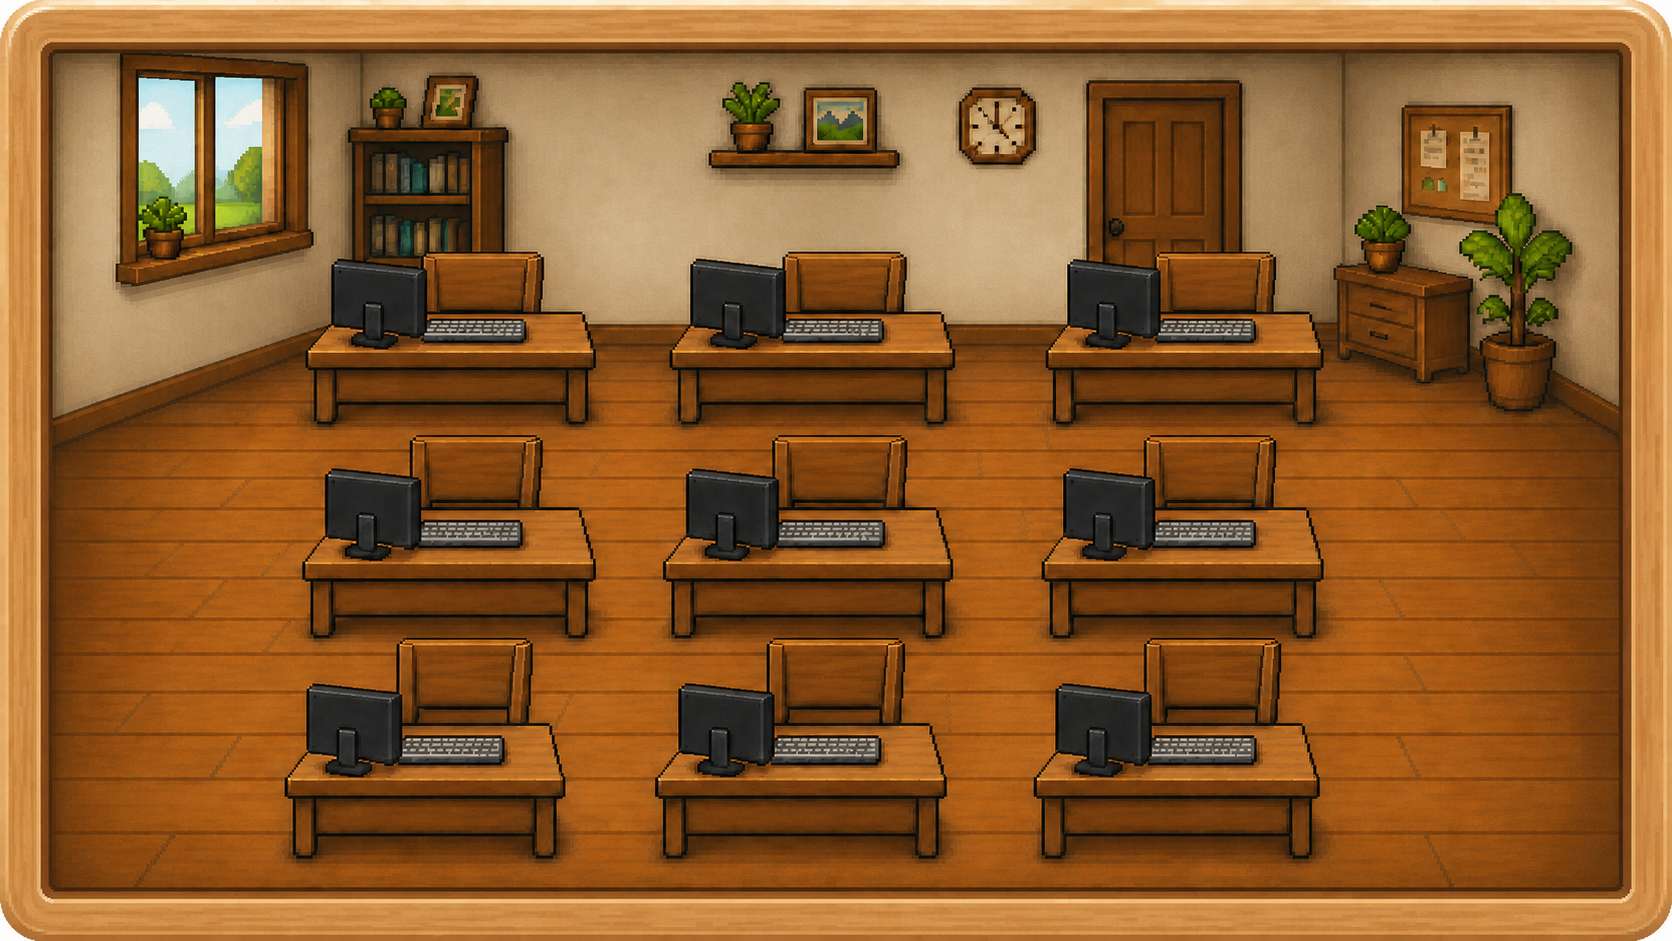
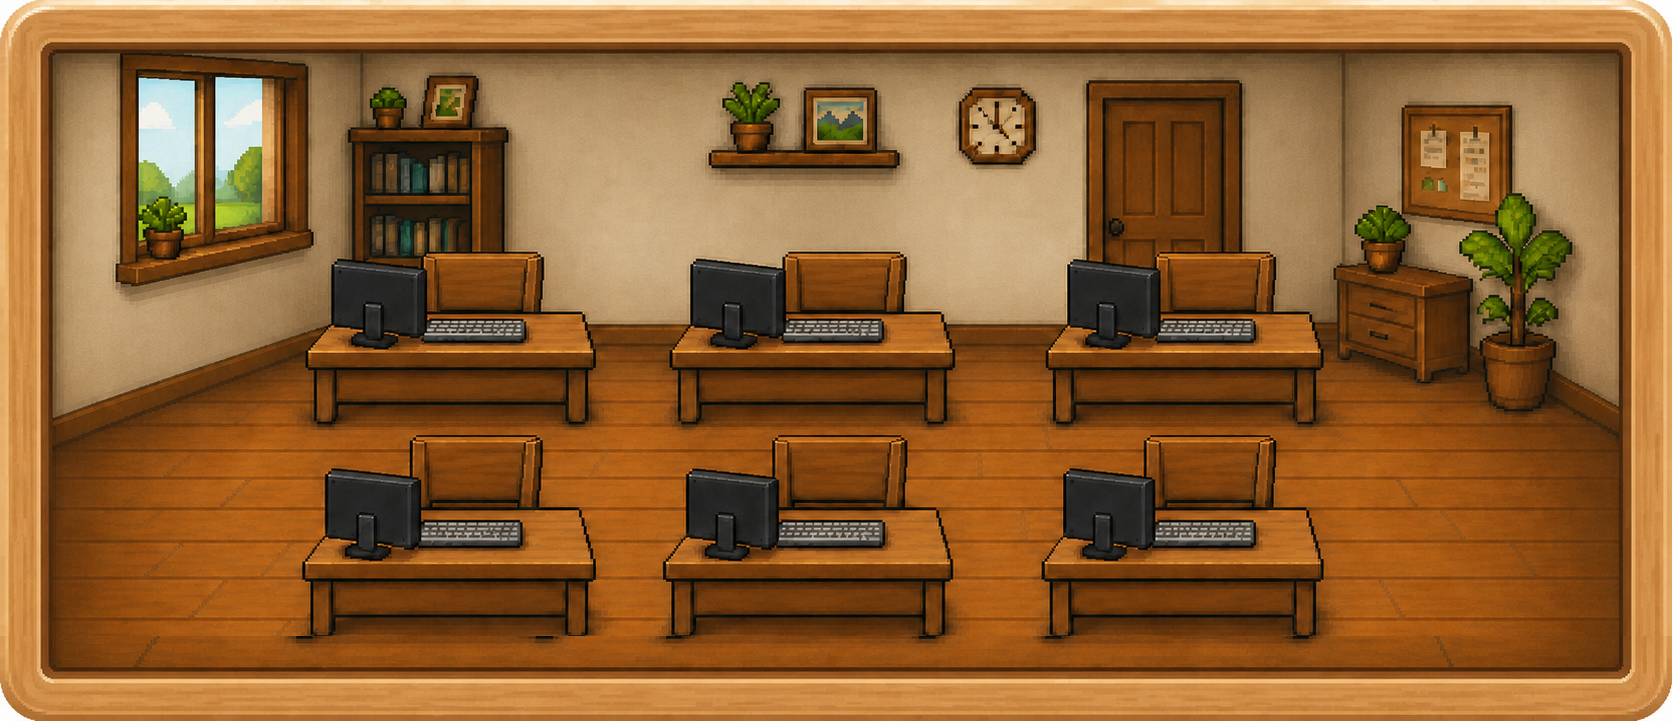
木框小窗缩小改 6 座、小人放大；看板被意外关掉 1 秒后自动重开
用户嫌 9 座太大、最多用到 6 个：背景裁掉最前排 3 张桌子（1672x941 → 1672x721，前排与底边木框
之间补一条地板，接缝看不出），窗口物理 480x270 → 400x173；小人画布宽 11.3/12.6% → 14.5/16%。
先坐前排：顶上状态框会压住后排中间那个小人的头。9 座原图存 renderer/_old（…）/assets/。
看板（设定03 永远常驻）：窗口 closed 且不是退出程序就记一笔、1 秒后重建；今天实机窗口没了日志一个字没有。
根因当时是 PasteBar 占了 8104 个窗口对象把桌面额度吃光，任何 Electron 程序都开不出窗口。

验收：检查边界 0；npm test 147+4 三轮；controls/lifecycle/screenshot/smoke 连跑三轮全过；
integration:smoke、verify-seats（6 座位置、背景 1672x721、画框比例）过。

diff --git a/src/pet/renderer/styles.css b/src/pet/renderer/styles.css
@@ -103,14 +103,14 @@ body[data-state="done"] .note-dot { background: var(--sprout-light); }
    撑满会踩这个坑：窗口高度按 scaleFactor 换算完难免差个几像素，图 contain 之后
    上下留一条空白，而圆角和阴影是照窗口边画的 → 木框四角和窗口边错开，
    看着就是「背景错位」（2026-08-14 用户报的）。
-   让画框自己保持 1672:941 并垂直居中，圆角/阴影永远咬着图边，换背景图也不会再错。 */
+   让画框自己保持 1672:721（2026-10-01 改 6 座后的图）并垂直居中，圆角/阴影永远咬着图边，换背景图也不会再错。 */
 .scene-frame {
   position: absolute;
   left: 0;
   right: 0;
   top: 50%;
   transform: translateY(-50%);
-  aspect-ratio: 1672 / 941;
+  aspect-ratio: 1672 / 721;
   max-height: 100%;
   z-index: 0;
   border-radius: 16px;
@@ -133,7 +133,8 @@ body[data-state="done"] .note-dot { background: var(--sprout-light); }
 }
 
 /* ===== 各 Agent 座位环境（v0.1.24 最终版背景）=====
-   座位对齐最终版背景图（1672x941，带圆角木框）9 套工位椅子中心。
+   座位对齐背景图（1672x721，带圆角木框）6 套工位椅子中心。
+   2026-10-01 用户嫌 9 座太大、最多用到 6 个：原图 1672x941 裁掉最前排 3 张桌子，横坐标不变，bottom 按新图高换算，小人放大约 1/4。
    坐标按 2026-08-14 vision 标定（椅子中心，±1%）；图 contain 在画框内。
    尺寸用百分比：窗口/画框跨缩放自适应（100%~179%）。 */
 .agent-seats {
@@ -142,7 +143,7 @@ body[data-state="done"] .note-dot { background: var(--sprout-light); }
   top: 50%;
   transform: translate(-50%, -50%);
   width: 100%;
-  aspect-ratio: 1672 / 941;
+  aspect-ratio: 1672 / 721;
   max-height: 100%;
   z-index: 4;
   pointer-events: none;
@@ -166,25 +167,22 @@ body[data-state="done"] .note-dot { background: var(--sprout-light); }
   clip-path: inset(15% 18% 0 18%);
 }
 
-/* 9 个落位（2026-08-14 从 classroom.png 网格标定）：
+/* 6 个落位（2026-08-14 从 9 座原图网格标定，2026-10-01 裁成 6 座后换算）：
    left = 椅背中心 x；bottom = 桌面上沿距图底；width = 素材画布宽。
    🚨 width 是**画布**宽不是小人宽：`normalize-avatars.ps1` 把小人本体统一排成画布的 62%，
    所以想让小人本体跟椅背一样宽（≈7.8% 图宽），画布得给到 12.6%。改了归一化比例，这里跟着改。
-   三排近大远小（远排小 10%、近排大 10%），跟房间透视对上。 */
-.seat-pos-0 { left: 29.3%; bottom: 65.4%; width: 11.3%; }
-.seat-pos-1 { left: 50.8%; bottom: 65.4%; width: 11.3%; }
-.seat-pos-2 { left: 72.7%; bottom: 65.4%; width: 11.3%; }
-.seat-pos-3 { left: 28.8%; bottom: 45.5%; width: 12.6%; }
-.seat-pos-4 { left: 50.5%; bottom: 45.5%; width: 12.6%; }
-.seat-pos-5 { left: 72.4%; bottom: 45.5%; width: 12.6%; }
-.seat-pos-6 { left: 27.9%; bottom: 23.6%; width: 13.9%; }
-.seat-pos-7 { left: 49.8%; bottom: 23.6%; width: 13.9%; }
-.seat-pos-8 { left: 72.2%; bottom: 23.6%; width: 13.9%; }
+   两排近大远小（后排小、前排大），跟房间透视对上。
+   🚨 先坐前排（0~2 是前排）：顶上的状态框会压住后排中间那个小人的头，三个以内的会话一个都不被挡。 */
+.seat-pos-0 { left: 28.8%; bottom: 28.9%; width: 16%; }
+.seat-pos-1 { left: 50.5%; bottom: 28.9%; width: 16%; }
+.seat-pos-2 { left: 72.4%; bottom: 28.9%; width: 16%; }
+.seat-pos-3 { left: 29.3%; bottom: 54.8%; width: 14.5%; }
+.seat-pos-4 { left: 50.8%; bottom: 54.8%; width: 14.5%; }
+.seat-pos-5 { left: 72.7%; bottom: 54.8%; width: 14.5%; }
 
 /* 前排盖后排，符合房间透视（DOM 顺序按会话优先级排，不能靠它） */
-.seat-pos-0, .seat-pos-1, .seat-pos-2 { z-index: 1; }
-.seat-pos-3, .seat-pos-4, .seat-pos-5 { z-index: 2; }
-.seat-pos-6, .seat-pos-7, .seat-pos-8 { z-index: 3; }
+.seat-pos-3, .seat-pos-4, .seat-pos-5 { z-index: 1; }
+.seat-pos-0, .seat-pos-1, .seat-pos-2 { z-index: 2; }
 
 /* 有人的座位：可点，但**一点视觉反馈都不给**。
    用户 2026-08-14 拍板：hover 冒出来的那个蓝框不要显示——点击是「底层功能」（点小人/椅子直接切回那个终端），

diff --git a/src/pet/window.ts b/src/pet/window.ts
@@ -30,18 +30,19 @@ import { clampWindowPosition, defaultWindowPosition } from "./window-position";
 //   上下各空 10px，而画框的圆角和阴影是按 290 高画的 → 木框四角和窗口边错开，
 //   看着就是「背景错位」（2026-08-14 用户报的）。改高度比改 CSS 干净：图正好铺满窗口。
 //   👉 以后要换背景图，**同时改这里的高度**，别让两边比例再分家。
+//   2026-10-01 用户嫌太大：背景裁成 6 座（1672×721），窗口物理 **400×173**（400 × 721 ÷ 1672 = 172.5）。
 //   ⚠ screen 在 app ready 前访问会挂（Electron 限制），所以这里只给默认值（100% 缩放），
 //   真实值在 createPetWindow 里按 scaleFactor 重算（见 ensurePetWindowSize）。
 let PET_SCALE = 1;
-export let PET_WINDOW_SIZE = { width: 480, height: 270 };
+export let PET_WINDOW_SIZE = { width: 400, height: 173 };
 export const PET_PHYSICAL_MARGIN = 16; // 距工作区顶部/右侧的物理像素
 
-/** 按当前主屏 scaleFactor 重算窗口逻辑尺寸（物理 480×270，= 场景图 1672×941 同比例）。 */
+/** 按当前主屏 scaleFactor 重算窗口逻辑尺寸（物理 400×173，= 场景图 1672×721 同比例）。 */
 function ensurePetWindowSize(): void {
   PET_SCALE = Math.max(1, screen.getPrimaryDisplay().scaleFactor || 1);
   PET_WINDOW_SIZE = {
-    width: Math.max(100, Math.round(480 / PET_SCALE)),
-    height: Math.max(60, Math.round(270 / PET_SCALE)),
+    width: Math.max(100, Math.round(400 / PET_SCALE)),
+    height: Math.max(60, Math.round(173 / PET_SCALE)),
   };
 }
 // 面板窗口最高 740（这台机工作区 778）。抽屉、设置用满高；
@@ -96,7 +97,7 @@ export function destroyPetWindow(): void {
 }
 
 export function createPetWindow(hub: AgentHub): BrowserWindow {
-  ensurePetWindowSize(); // 按主屏缩放重算窗口尺寸（物理 480×270 → 逻辑）
+  ensurePetWindowSize(); // 按主屏缩放重算窗口尺寸（物理 400×173 → 逻辑）
   const saved = loadWindowBounds();
   const workArea = screen.getPrimaryDisplay().workArea;
   const margin = Math.round(PET_PHYSICAL_MARGIN / PET_SCALE);

diff --git a/src/pet/renderer/shell.js b/src/pet/renderer/shell.js
@@ -156,7 +156,7 @@ function refreshPetPose() {
 }
 
 // ===== 各 Agent 座位环境（v0.1.23 从「气泡条」改版，第三版：表情小人）=====
-// 环境 = 像素教室背景图（assets/classroom.png，用户原型图），9 套工位就是 9 个座位。
+// 环境 = 像素教室背景图（assets/classroom.png，用户原型图），6 套工位就是 6 个座位（2026-10-01 从 9 座裁成 6 座，用户最多同时用 6 个）。
 // 座位 = 椅子贴片（assets/seats/chair-0~8.png，从背景原位抠出贴回无缝）+ 坐在椅子上的小人 + 状态灯。
 // 小人素材 = assets/avatars/<agent>.png，按状态分表情：
 //   <agent>-working.png（干活） / <agent>-error.png（报错） / <agent>-done.png（开心完成） / <agent>-waiting.png（疑问）
@@ -164,7 +164,7 @@ function refreshPetPose() {
 //   用户 2026-08-14 拍板：不要 CSS 像素小人占位，表情图用户自己提供。
 // 灯色规矩沿用拍的板（状态灯保留，集成到表情之外仍亮着）：
 //   绿 = 工作中 / 黄 = 休息中 / 红 = 卡顿·故障。
-const SEAT_COUNT = 9;
+const SEAT_COUNT = 6;
 const SEAT_STUCK_MS = 5 * 60 * 1000;
 let seatSignature = null;
 
@@ -215,7 +215,7 @@ function filledSeatHtml(session, now, index) {
 
 // 每次快照都调，但只在「哪几个会话 + 各自灯色」变了才重画 DOM——
 // 干活时快照来得很快，每次都重建会让座位闪烁（用户视力不好，不许闪）。
-// 会话按优先级排序后依次坐进 seat-pos-0~8；空工位不渲染（背景图里本来就有）。
+// 会话按优先级排序后依次坐进 seat-pos-0~5；空工位不渲染（背景图里本来就有）。
 function renderSeats(sessions) {
   const now = Date.now();
   const seatSessions = (sessions || []).slice(0, SEAT_COUNT);

diff --git a/src/bookmark/panel-window.ts b/src/bookmark/panel-window.ts
@@ -91,6 +91,8 @@ const PANEL_VERSION: string = (() => {
 })();
 
 let panel: BrowserWindow | null = null;
+/** 退出程序时才置真；窗口 closed 时据此区分「真退出」和「被意外关掉要重建」。 */
+let panelShuttingDown = false;
 let store: BookmarkStore | null = null;
 let roster: AgentRoster | null = null;
 let hotkeyRegistered = false;
@@ -377,6 +379,7 @@ export function toggleBookmarkPanel(): void {
 
 /** 退出清理：退热键、停定时器、关窗口。数据在磁盘上，不丢。 */
 export function closeBookmarkPanel(): void {
+  panelShuttingDown = true;
   try {
     if (hotkeyRegistered) {
       globalShortcut.unregister(BOOKMARK_HOTKEY);
@@ -481,8 +484,20 @@ function createPanel(): BrowserWindow {
   });
   win.on("show", () => setTimeout(() => keepAcrylicLit(win), 0));
   wireBoardZoom(win);
+  // 🚨 看板永远常驻（设定03）。窗口被意外关掉（Alt+F4、系统收走）就记一笔，1 秒后重建；
+  // 只有退出程序走 closeBookmarkPanel 才算真关。2026-10-01 实机：窗口没了、日志一个字没有，托盘点了才回来。
   win.on("closed", () => {
-    panel = null;
+    if (panel === win) panel = null;
+    if (panelShuttingDown) return;
+    log.出事("看板窗口被关了（不是退出程序），1 秒后重建", undefined, "window");
+    setTimeout(() => {
+      if (panelShuttingDown || panel) return;
+      try {
+        ensurePanel();
+      } catch (error) {
+        log.出事("看板重建失败（托盘「书签台」还能拉回来）", error, "window");
+      }
+    }, 1_000);
   });
   win.webContents.setWindowOpenHandler(({ url }) => {
     // 面板里不开网页：链接一律丢给系统浏览器。

diff --git a/src/pet/renderer/index.html b/src/pet/renderer/index.html
@@ -130,10 +130,10 @@
           <small id="status-state">空闲</small>
         </button>
 
-        <!-- 各 Agent 座位环境（v0.1.23）：环境 = 像素教室背景（在画框内），9 个座位精确对齐背景图里的 9 套工位。
+        <!-- 各 Agent 座位环境（v0.1.23）：环境 = 像素教室背景（在画框内），6 个座位精确对齐背景图里的 6 套工位（2026-10-01 从 9 座裁成 6 座）。
              开一个 CLI 会话就「抱出」一个小人坐上；会话关了小人消失，工位空着。
              小人图 = assets/avatars/<agent>.png（用户自己加，没有就隐藏留空）。
-             座位位置由 styles.css 的 .seat-pos-0~8 定（对齐背景工位中心百分比）。 -->
+             座位位置由 styles.css 的 .seat-pos-0~5 定（对齐背景工位中心百分比）。 -->
 
         <button id="pet" class="pet" data-interactive type="button" aria-label="按住幼苗拖动，松手放下">
           <span class="pet-motion">

diff --git a/src/pet/AGENTS.md b/src/pet/AGENTS.md
@@ -1,6 +1,6 @@
 # pet —— 窗口、画框和它里面的一切
 
-**这块管什么**：右上角那个木框小浮窗（物理 480×270）。窗口怎么建、放哪、什么形状、托盘菜单，以及画框里的座位/小人/状态框/右键菜单。**2026-08-14 起：桌面幼苗已移除**（`.pet { display:none }`，元素保留避免报错），功能全部集成到画框窗口（按住画框拖窗口、右键菜单）。
+**这块管什么**：右上角那个木框小窗（物理 400×173，2026-10-01 从 480×270 缩的）。窗口怎么建、放哪、什么形状、托盘菜单，以及画框里的座位/小人/状态框/右键菜单。**2026-08-14 起：桌面幼苗已移除**（`.pet { display:none }`，元素保留避免报错），功能全部集成到画框窗口（按住画框拖窗口、右键菜单）。
 
 | 文件 | 管什么 |
 |---|---|
@@ -32,11 +32,11 @@ createTray  createTrayActions  PetTrayActions
 - 🚨 **桌面幼苗已移除（2026-08-14）**：`.pet { display: none !important }`，元素保留（pet.js/boot.js 还有引用，删了会报错）。动画/姿态全部不可见，pet.js 的 `beginPetDrag`/`endPetDrag` 已通用化成 `(event, targetEl)` 供画框拖动用。**不许把 .pet 恢复显示**（用户拍板不要幼苗）。
 - 🚨 **拖动 = 按住画框（`.scene-frame`）移动整个窗口**：boot.js 绑 scene-frame 的 pointerdown（排除 `.seat-filled`/`#status-note`/`#pet-menu`），窗口全屏可拖、锁工作区内、位置保存。
 - 🚨 **右键画框任意处 = 功能菜单**（`#pet-menu`）：详情/设置/藏起来/测试通知/打开日志/退出。新增 ipc `window:show` / `window:open-logs` / `window:quit`（window-ipc.ts）+ preload `showWindow/openLogs/quitApp`。托盘保留同样功能。
-- 🚨 **窗口物理尺寸固定 480×270**（`PET_WINDOW_SIZE`），按 `screen.getPrimaryDisplay().scaleFactor` 换算逻辑像素——**必须在 createPetWindow 里算（ensurePetWindowSize），模块顶层访问 screen 在 app ready 前会挂**。默认右上角（`PET_PHYSICAL_MARGIN`=16 物理像素）。
-  高度 270 = 480 ÷ (1672/941)，**跟背景图同比例**。早先 290 对不上，图 contain 之后上下各空 10px，木框四角和窗口边错开——用户 2026-08-14 报的「背景错位」就是这个。换背景图记得同时改这里。
-- 🚨 **画框 `.scene-frame` 自己带 `aspect-ratio: 1672/941` 并垂直居中，不是 `inset: 0` 撑满窗口。** 窗口高按 scaleFactor 换算难免差几像素，撑满就会让圆角/阴影照着窗口边画、和图边错开。让画框咬着图的比例走，是「背景错位」的第二道保险。
+- 🚨 **窗口物理尺寸固定 400×173**（`PET_WINDOW_SIZE`），按 `screen.getPrimaryDisplay().scaleFactor` 换算逻辑像素——**必须在 createPetWindow 里算（ensurePetWindowSize），模块顶层访问 screen 在 app ready 前会挂**。默认右上角（`PET_PHYSICAL_MARGIN`=16 物理像素）。
+  高度 173 = 400 ÷ (1672/721)，**跟背景图同比例**（2026-10-01 前是 480×270 配 1672×941 的 9 座图）。早先 290 对不上，图 contain 之后上下各空 10px，木框四角和窗口边错开——用户 2026-08-14 报的「背景错位」就是这个。换背景图记得同时改这里。
+- 🚨 **画框 `.scene-frame` 自己带 `aspect-ratio: 1672/721` 并垂直居中，不是 `inset: 0` 撑满窗口。** 窗口高按 scaleFactor 换算难免差几像素，撑满就会让圆角/阴影照着窗口边画、和图边错开。让画框咬着图的比例走，是「背景错位」的第二道保险。
 - 🚨 **座位定位用百分比**（`.seat-pos-0~8`，相对 `.agent-seats` 的 aspect-ratio 容器），跨缩放自适应；`--pet-band` 固定 8px（面板弹出时画框+幼苗一起隐藏，:has 规则）。
-- 🚨 **背景 = 用户图 v2**（`assets/classroom.png`，1672×941，圆角木框，四角已透明化）。**这是用户的原型图定稿，别再「优化」它**——2026-08-14 用户以为背景被改了，实际是贴上去的小人素材糊住了显示器。
+- 🚨 **背景 = 用户图 v2**（`assets/classroom.png`，1672×721，圆角木框，四角已透明化；2026-10-01 用户让裁掉最前排 3 张桌子，9 座原图在 `renderer/_old（…）/assets/`）。**这是用户的原型图定稿，别再「优化」它**——2026-08-14 用户以为背景被改了，实际是贴上去的小人素材糊住了显示器。
 - 🚨 **座位不许有任何视觉框。** hover 冒出来的边框/底色用户明确不要（2026-08-14）：点座位切回终端是「底层功能」，不该在画面上留痕。`.seat` 是 `border: 0`，hover/active/focus 一律不给样式。命中区靠 `clip-path: inset(15% 18% 0 18%)` 裁到小人本体那块——**不裁不行**：素材画布上方是大片透明留白，前排座位的留白会盖住后排的命中区，点了切错终端。
 - 🚨🚨 **别再用 `setShape()` 挡点击，它挡不住。** Electron 官方文档白纸黑字：**透明窗口的透明区域点不过去**，而 `setShape` 是实验性 API，在 Windows 上对 transparent＋layered 窗口不生效。页面里那句 `pointer-events: none` 只管网页内部，管不到系统层。
   → 结果就是那个 440×680 的透明矩形一直吃鼠标，人在底下点视频、点别的窗口全点不着（2026-08-12 用户报的 bug，根因就是这个）。
@@ -68,7 +68,7 @@ createTray  createTrayActions  PetTrayActions
 - Windows 这台机关了系统动画，桌宠的"自然／活泼"是**用户明确要求的覆盖**，只重开幼苗动作，**不许去改 Windows 设置**；选"安静"就保持静态。
 - 姿态只跟着 Agent 状态自动变，**不提供手动动作试演**。
 - 🚨 **完成弹窗只在某个会话「新进入 done」时弹。** 不许用 lead 身份变化当触发——已经点掉的完成会话一回到队首会再弹一次，看着像乱弹（2026-08-13 实机）。
-- 🚨 **座位环境 = 9 个固定座位格**（v0.1.23 从气泡条改版）：状态框下面 3×3 网格，常驻——没会话时显示淡空位。
+- 🚨 **座位环境 = 6 个座位**（v0.1.23 从气泡条改版，2026-10-01 从 9 座减到 6 座，用户说最多同时用 6 个）：两排各 3 个，**先坐前排**（`seat-pos-0~2` 是前排），因为顶上的状态框会压住后排中间那个小人的头。
   每个座位三层：椅子（底）→ 工位台（中）→ 小人（前景，`assets/avatars/<agent>.png`），右上角状态灯。
   开一个 CLI 会话 → 那个座位「抱出」小人；会话关了 → 小人消失留空位。
   灯色绿=工作中/黄=休息中/红=卡顿·故障（working/thinking/waiting 超 5 分钟没动静算卡顿，10 秒定时重算）。
